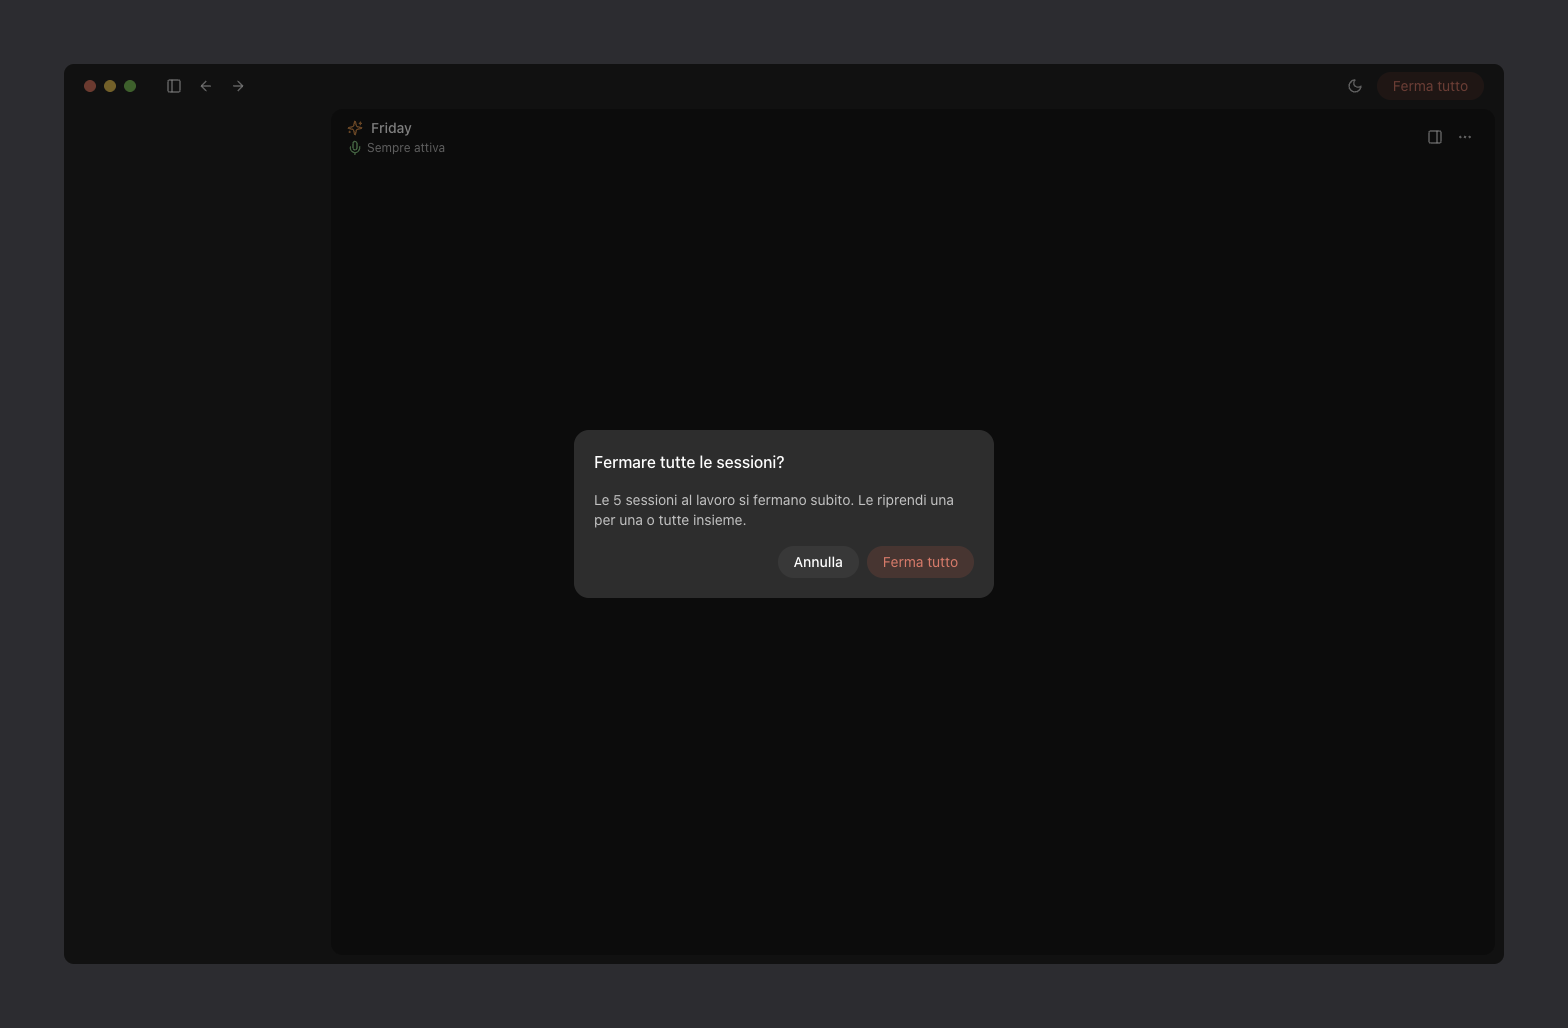
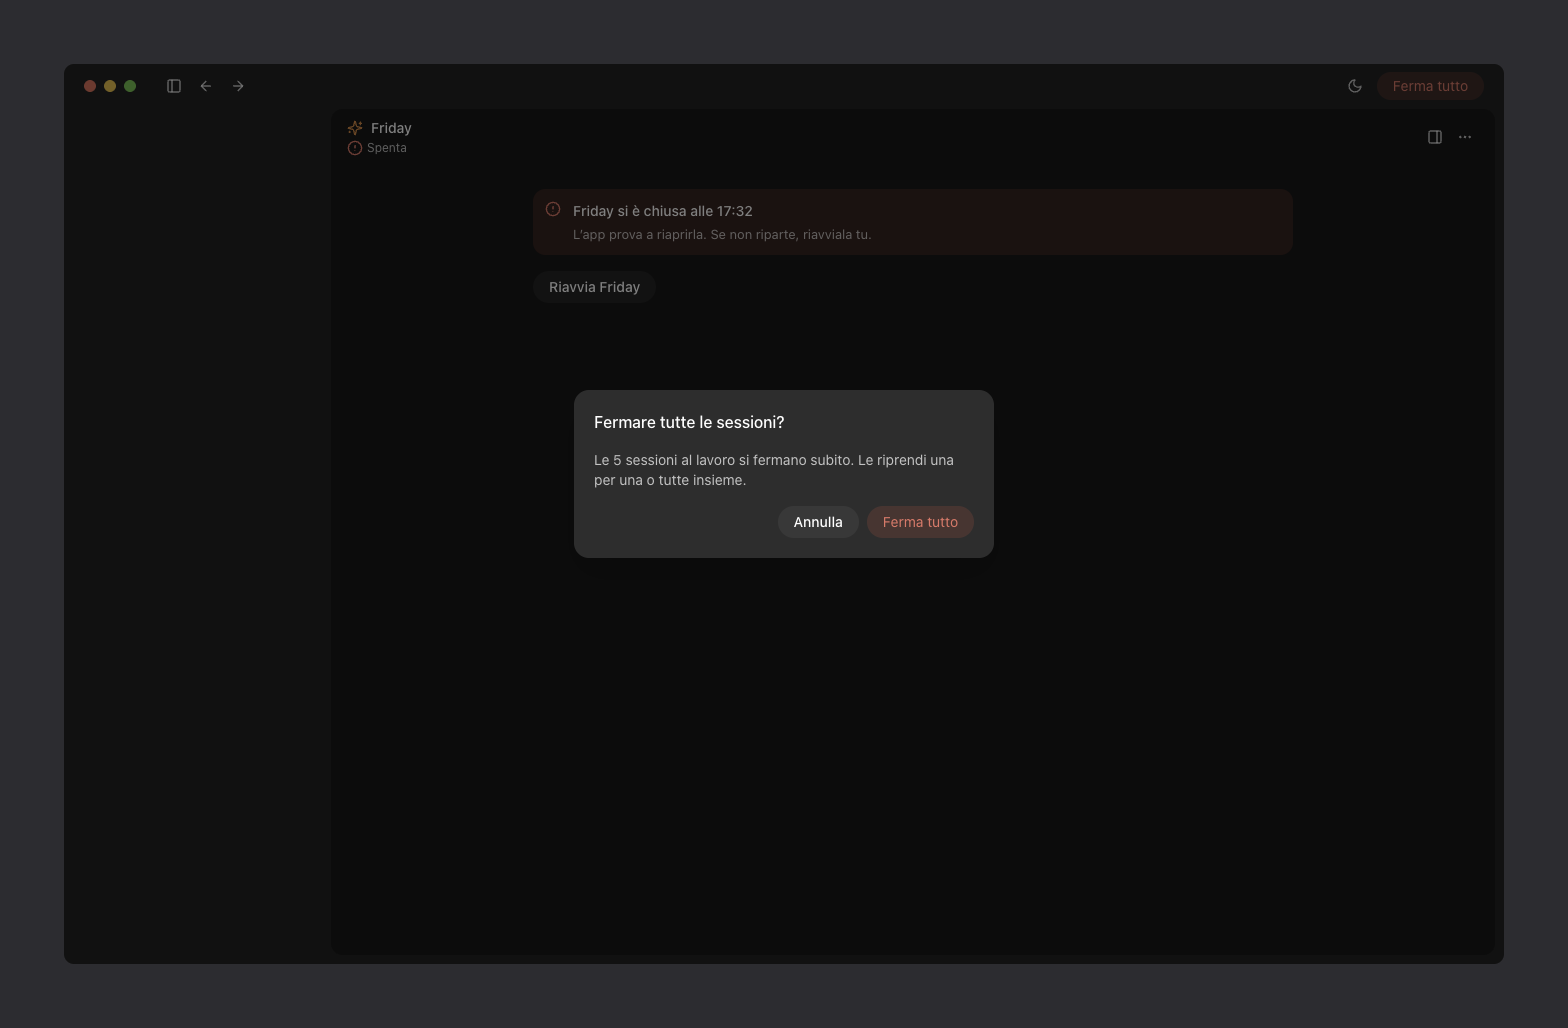
fix(sessioni): il dialogo comune ha l'ombra e la posizione di Figma (#382) (#383)

Changed region(s): [[0.3438, 0.3735, 0.6562, 0.5914], [0.3438, 0.1868, 0.5312, 0.249], [0.2188, 0.1245, 0.25, 0.1556]]

diff --git a/sessioni/src/ui/base/dialogo.css b/sessioni/src/ui/base/dialogo.css
@@ -1,8 +1,10 @@
 /* figma: 101-37696 — «velo» sulla finestra e «dialogo» al centro */
-.velo { position: fixed; inset: 0; z-index: 30; display: flex; align-items: center; justify-content: center; background: var(--colore-fondo-velo); }
+/* In Figma il centro del dialogo sta spazio-10 sopra il centro della finestra (101-37696, 101-22044, 101-39512): il fondo del velo ne tiene il doppio. */
+.velo { position: fixed; inset: 0; z-index: 30; padding-bottom: calc(2 * var(--spazio-10)); display: flex; align-items: center; justify-content: center; background: var(--colore-fondo-velo); }
 .parita .velo { inset: var(--spazio-16); border-radius: var(--raggio-md); }
 .dialogo {
   width: var(--misura-dialogo); padding: var(--spazio-5); gap: var(--spazio-4);
   display: flex; flex-direction: column; background: var(--colore-fondo-elevato); border-radius: var(--raggio-xl);
+  box-shadow: 0 var(--ombra-y) var(--ombra-raggio) var(--ombra-espansione) var(--colore-ombra-colore);
 }
 .dialogo .bottoni { display: flex; justify-content: flex-end; gap: var(--spazio-2); }
